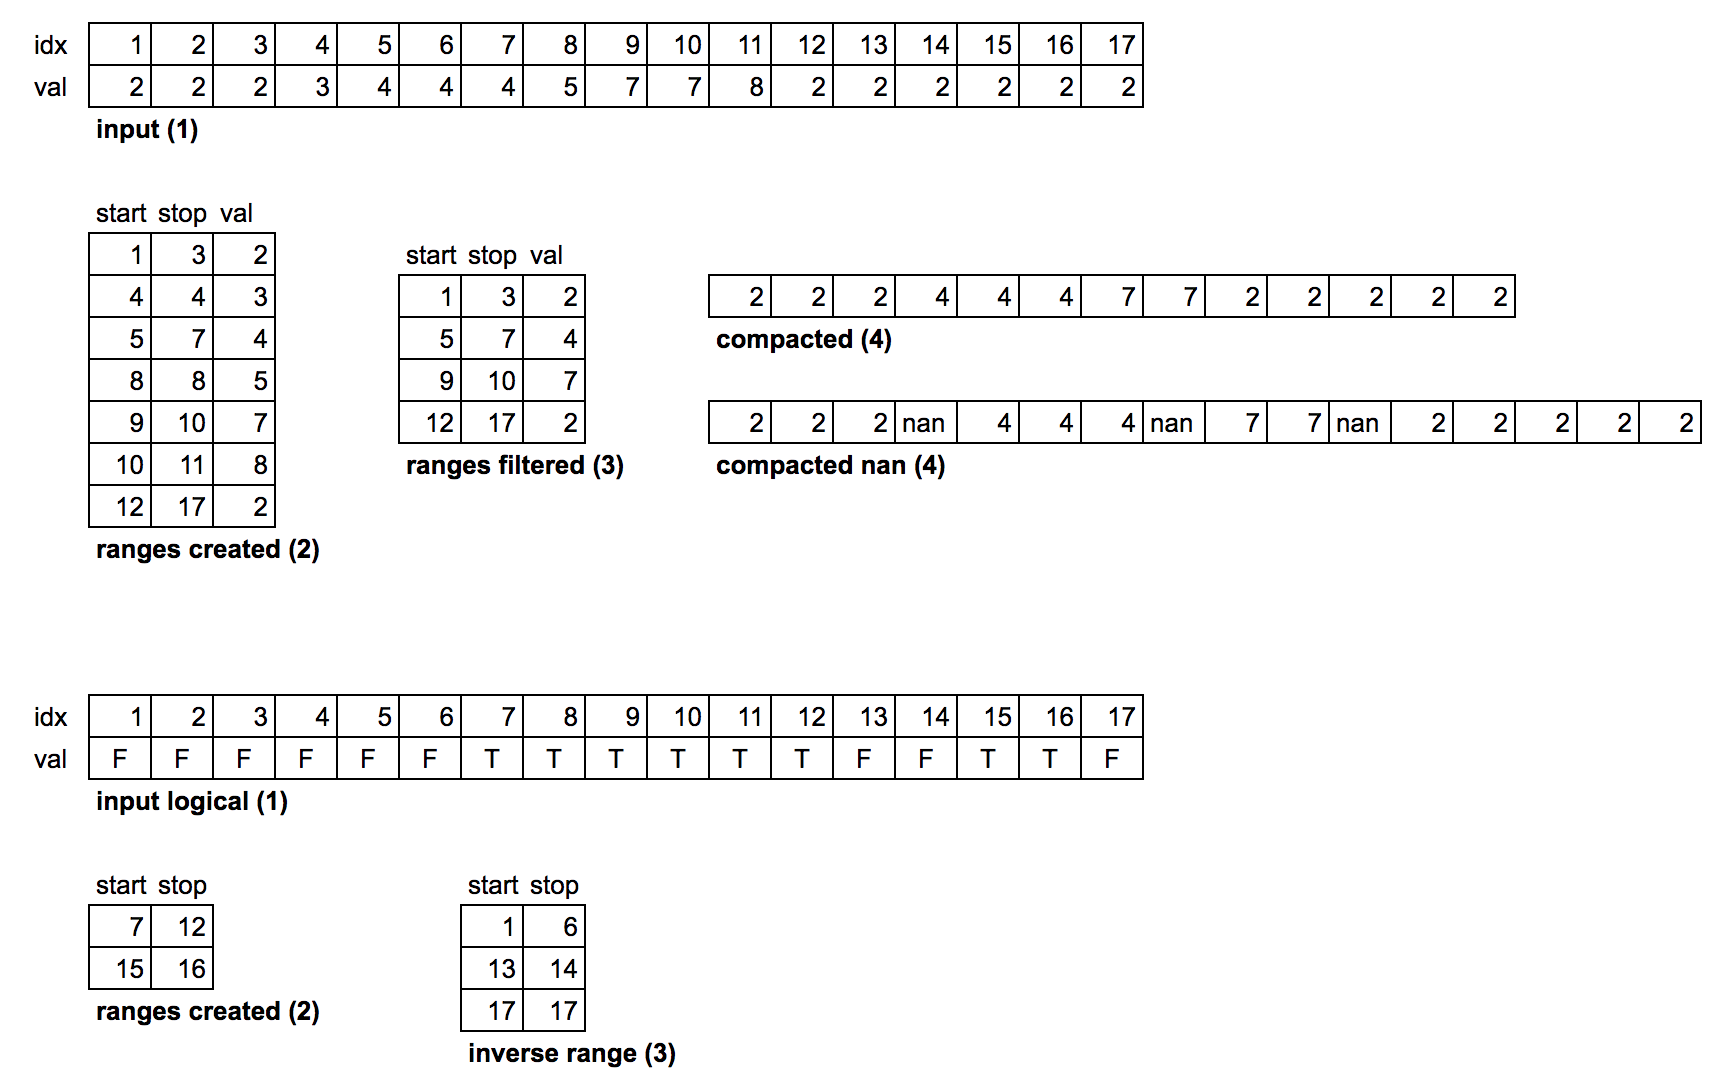
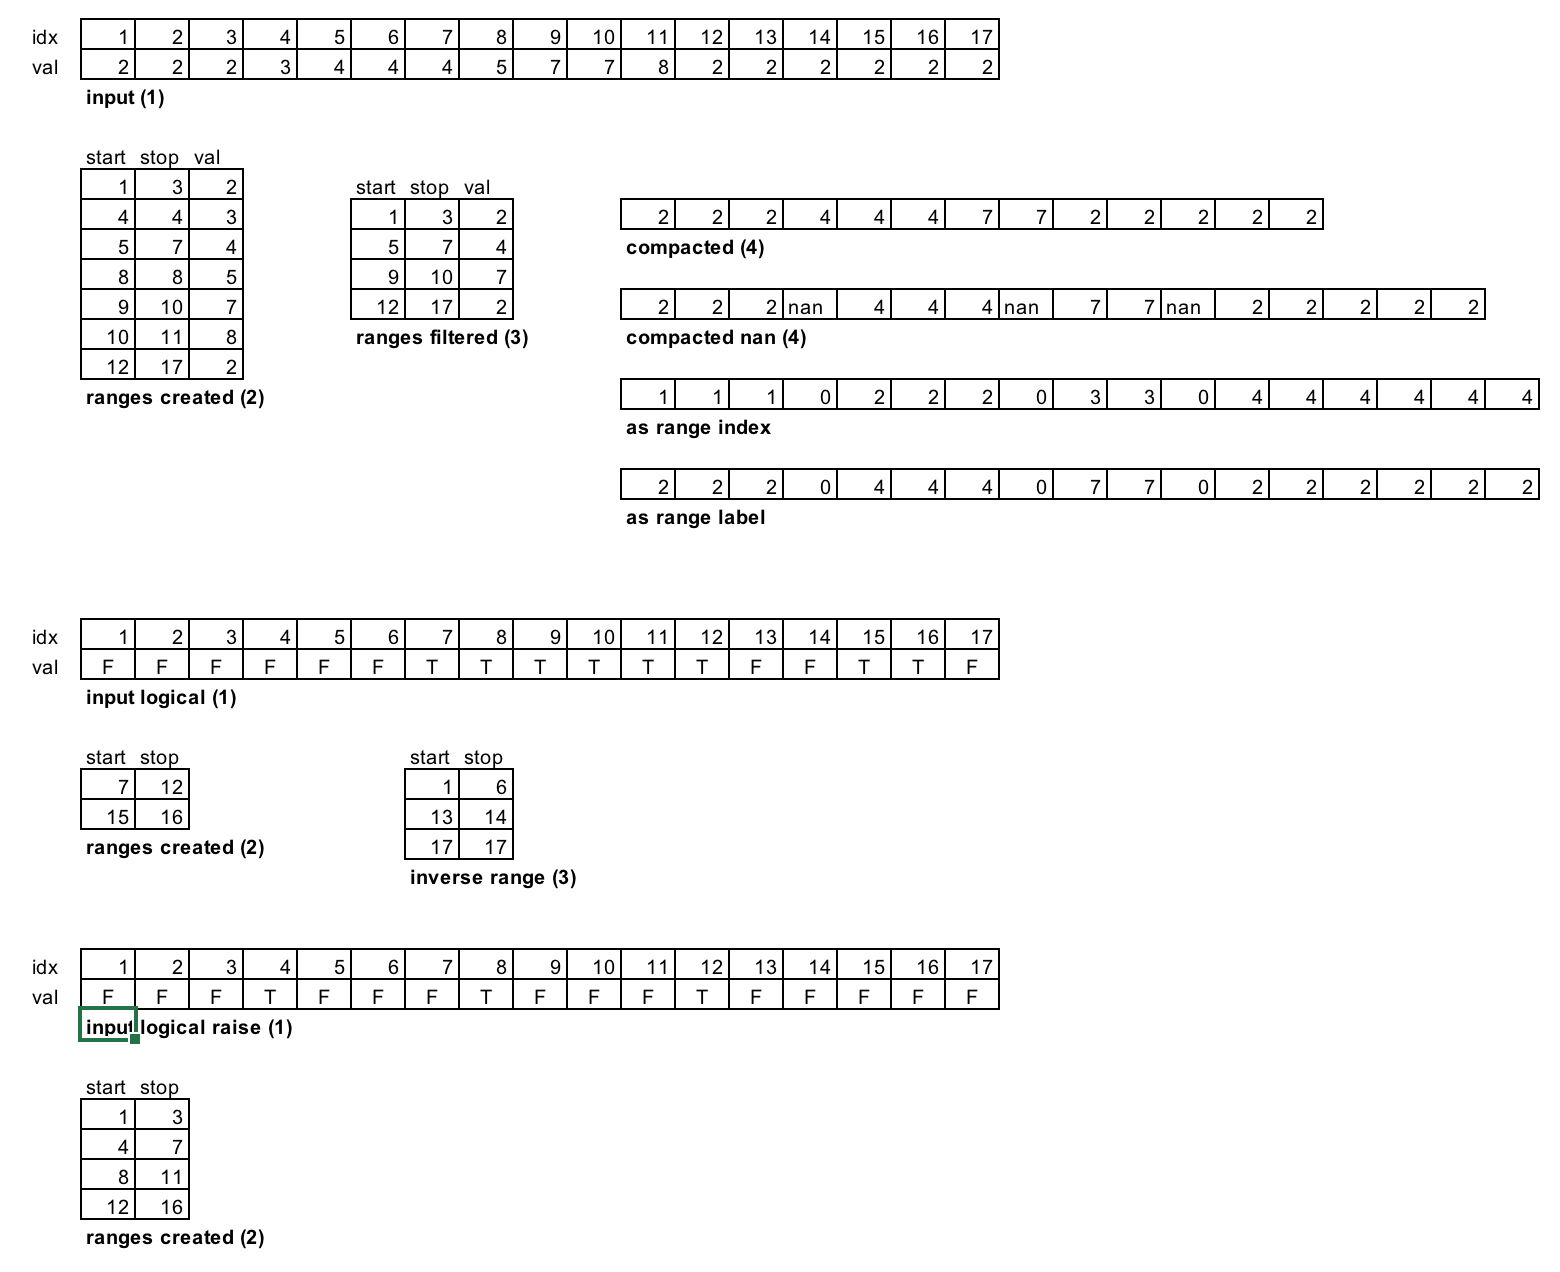
better description, and varia

Changed region(s): [[0.0, 0.0, 0.6769, 1.0], [0.4, 0.1528, 1.0, 0.4583], [0.2154, 0.1222, 0.3692, 0.4583]]

diff --git a/@ranges/ranges.m b/@ranges/ranges.m
@@ -153,6 +153,14 @@ classdef ranges
                 r = ranges.fromlogical(e);
             end
         end
+
+        function b = isfull(this)
+            if isempty(this.values)
+                b = true;
+            else
+                b = sum(this.lengths()) == this.n;
+            end
+        end
         
         function r = torangeindex(this)    
             ra = this.values;

diff --git a/README.md b/README.md
@@ -16,17 +16,13 @@ Two operations are specifically useful:
 
 # Details #
 
-Which are the representation or sources of ranges?
+The internal representation is a sequence of non-overlapping monotonic intervals expressed by inclusive [start,end] optionally with an associated label. The ranges object can cover all the original space (full) or a subset.
 
-- [start,end] sequence of indices, eventually enforcing to be not overlapping and/or monotonic in start. 
-	- in the case ranges are not overlapping, consecutive and monotonic only start is necessary
-- logical marker of start or end, for consecutive ranges like 0 1 0 0 0 0 1 0 0 0 1 
-- event logical: 1 1 1 1 1 0 0 0 0 1 1 1 1 1
-- marker of group 1 1 1 1 1 2 2 2 2 2 3 3 3 3 3
+Input formats are:
 
-The (start,end) sequence is the most efficient for subset selection, but for reconstructing the other two it requires the full length of the original data.
-
-Also end can be inside [a,b] or outside the range [a,b). Just a matter of convention. The event logical format is very useful for performing combination of separate range sets.
+* list of labels (1 1 1 1 1 2 2 2 2 2 3 3 3 3 3): all label ranges are stored. The output is a full coverage
+* logical (TTTT FFFF T FFFF TT): only true parts are stored as ranges. The output is a partial coverage.
+* logical marker of start, e.g. like diff(time) ~= 0 (F T F F F F T F F F T): create a new range starting at every raising level. The output is a full coverage
 
 # Operations #
 
@@ -47,6 +43,7 @@ Construction by labels, logicals:
 * Label for each range: r.labels()
 * Dump all range data: double(r)
 * Separations between ranges: r.separations()
+* Is Full Coverage: r.isfull()
 
 ## Conversion ##
 
